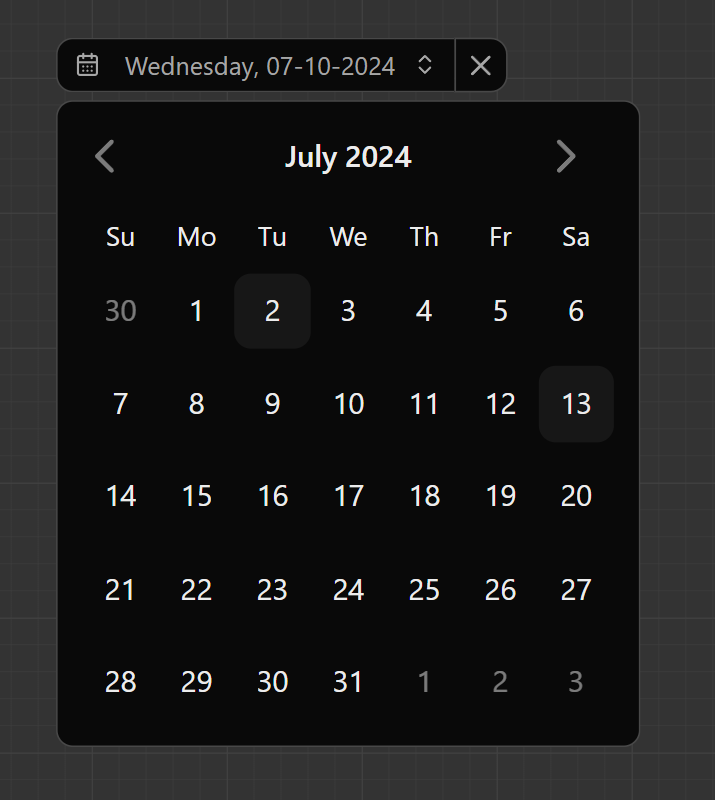
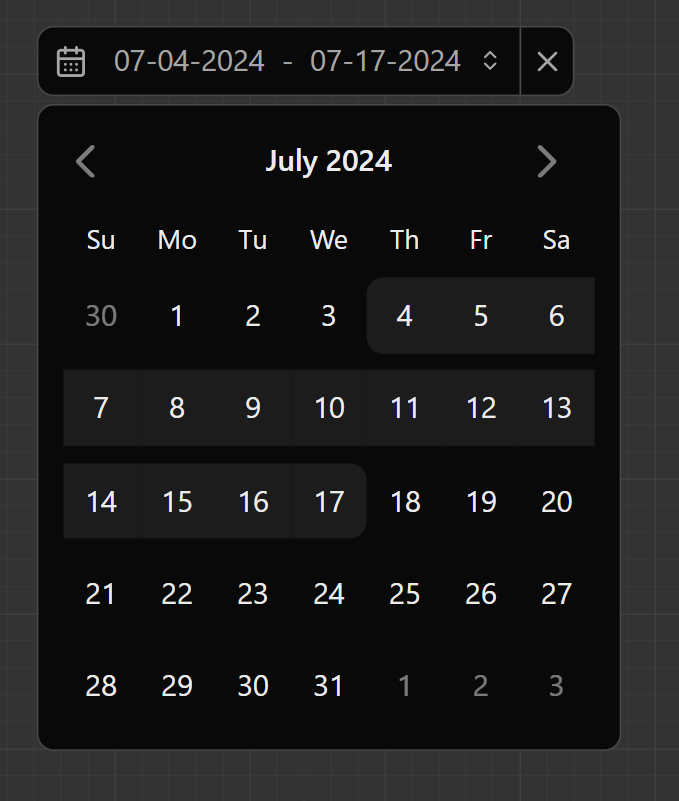
GITBOOK-15: No subject

diff --git a/components/dialog.md b/components/dialog.md
@@ -1,0 +1,72 @@
+---
+layout:
+  title:
+    visible: true
+  description:
+    visible: false
+  tableOfContents:
+    visible: true
+  outline:
+    visible: true
+  pagination:
+    visible: true
+---
+
+# Dialog
+
+### Properties
+
+* width: number
+
+#### HeaderProperties
+
+* title: string
+* dialogRef:  MutableRefObject\<DialogRef>
+* onClose: void
+
+#### FooterProperties
+
+* cancelButton: boolean
+* switchButton: boolean
+* saveButtonTitle: string
+* disabledButton?: boolean
+* dialogRef: MutableRefObject\<DialogRef>
+* switchRef?: MutableRefObject\<DialogRef>
+* onClick?: void
+* onClose?: void
+
+
+
+{% tabs %}
+{% tab title="Example" %}
+<figure><img src="../.gitbook/assets/image (20).png" alt=""><figcaption></figcaption></figure>
+{% endtab %}
+
+{% tab title="Code" %}
+
+
+```tsx
+const dialogRef = useRef<DialogRef>(null);
+
+<Dialog ref={dialogRef} width={600}>
+    <DialogHeader title={"Example Dialog"}
+                  dialogRef={dialogRef}
+    />
+    <DialogContent className={"space-y-2"}>
+        <div className={"space-y-2"}>
+            <Button text={"Button"}></Button>
+            <Input placeholder={"Placeholder"}></Input>
+        </div>
+    </DialogContent>
+    <DialogFooter saveButtonTitle={"Save"}
+                  cancelButton={true}
+                  switchButton={false}
+                  dialogRef={dialogRef}
+                  disabledButton={false}
+    />
+</Dialog>
+
+<button onClick={() => dialogRef?.current.show()}>Dialog</button>
+```
+{% endtab %}
+{% endtabs %}

diff --git a/components/daterangepicker.md b/components/daterangepicker.md
@@ -1,0 +1,42 @@
+---
+layout:
+  title:
+    visible: true
+  description:
+    visible: false
+  tableOfContents:
+    visible: true
+  outline:
+    visible: true
+  pagination:
+    visible: true
+---
+
+# Daterangepicker
+
+### Properties
+
+* text: string
+* preSelectedRange?: DateRange | undefined
+* closeButton: boolean
+* dayFormat: "short" | "long"
+* onClose?: void
+* onRangeChange?: void
+
+
+
+{% tabs %}
+{% tab title="Example" %}
+<figure><img src="../.gitbook/assets/image.png" alt=""><figcaption></figcaption></figure>
+{% endtab %}
+
+{% tab title="Second Tab" %}
+```tsx
+<DateRangePicker text={"Select a range"}
+                 size={"medium"}
+                 dayFormat={"short"}
+                 closeButton={true}
+/>
+```
+{% endtab %}
+{% endtabs %}

diff --git a/components/contextmenu.md b/components/contextmenu.md
@@ -21,9 +21,11 @@ layout:
 * icon?: ReactNode
 * onClick?: void
 
+
+
 {% tabs %}
 {% tab title="Example" %}
-<figure><img src="../.gitbook/assets/image (1).png" alt=""><figcaption></figcaption></figure>
+<figure><img src="../.gitbook/assets/image (1) (1).png" alt=""><figcaption></figcaption></figure>
 {% endtab %}
 
 {% tab title="Second Tab" %}

diff --git a/components/closebutton.md b/components/closebutton.md
@@ -18,9 +18,11 @@ layout:
 
 * iconSize?: number
 
+
+
 {% tabs %}
 {% tab title="Example" %}
-<figure><img src="../.gitbook/assets/image (1) (1).png" alt=""><figcaption></figcaption></figure>
+<figure><img src="../.gitbook/assets/image (1) (1) (1).png" alt=""><figcaption></figcaption></figure>
 {% endtab %}
 
 {% tab title="Second Tab" %}

diff --git a/components/breadcrump.md b/components/breadcrump.md
@@ -24,7 +24,7 @@ layout:
 
 {% tabs %}
 {% tab title="First Tab" %}
-<figure><img src="../.gitbook/assets/image (1) (1) (1).png" alt=""><figcaption></figcaption></figure>
+<figure><img src="../.gitbook/assets/image (1) (1) (1) (1).png" alt=""><figcaption></figcaption></figure>
 {% endtab %}
 
 {% tab title="Second Tab" %}

diff --git a/SUMMARY.md b/SUMMARY.md
@@ -15,7 +15,6 @@
 * [Closebutton](components/closebutton.md)
 * [Combobox](components/combobox.md)
 * [Contextmenu](components/contextmenu.md)
-
-***
-
-* [Datepicker](datepicker.md)
+* [Datepicker](components/datepicker.md)
+* [Daterangepicker](components/daterangepicker.md)
+* [Dialog](components/dialog.md)

diff --git a/components/datepicker.md b/components/datepicker.md
@@ -28,7 +28,7 @@ layout:
 
 {% tabs %}
 {% tab title="Example" %}
-<figure><img src=".gitbook/assets/image.png" alt=""><figcaption></figcaption></figure>
+<figure><img src="../.gitbook/assets/image (1).png" alt=""><figcaption></figcaption></figure>
 {% endtab %}
 
 {% tab title="Code" %}
